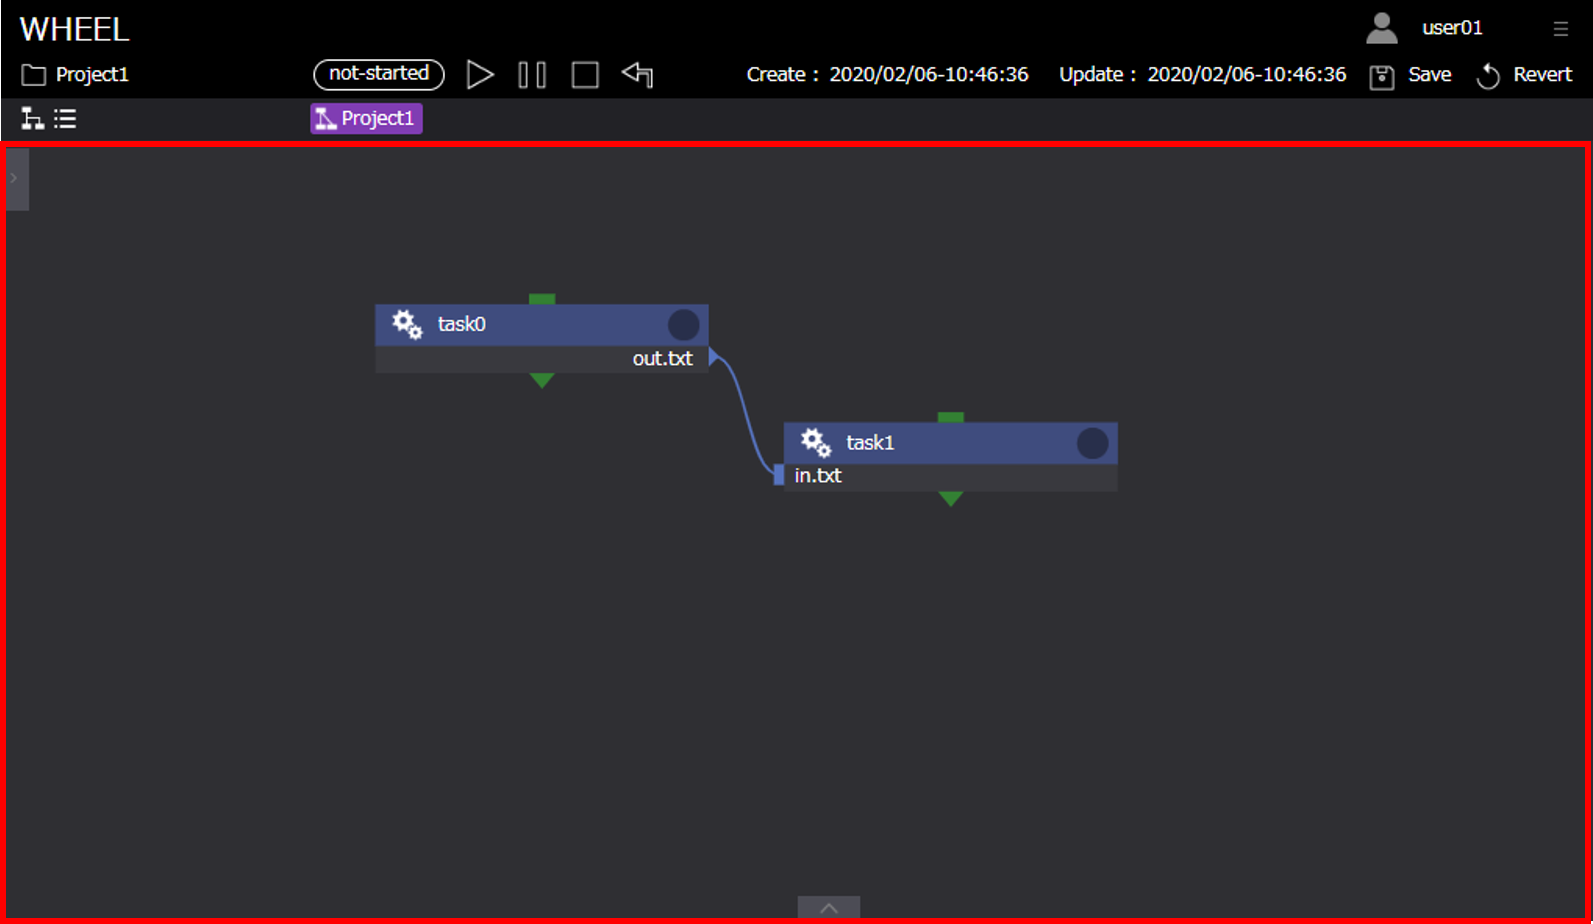
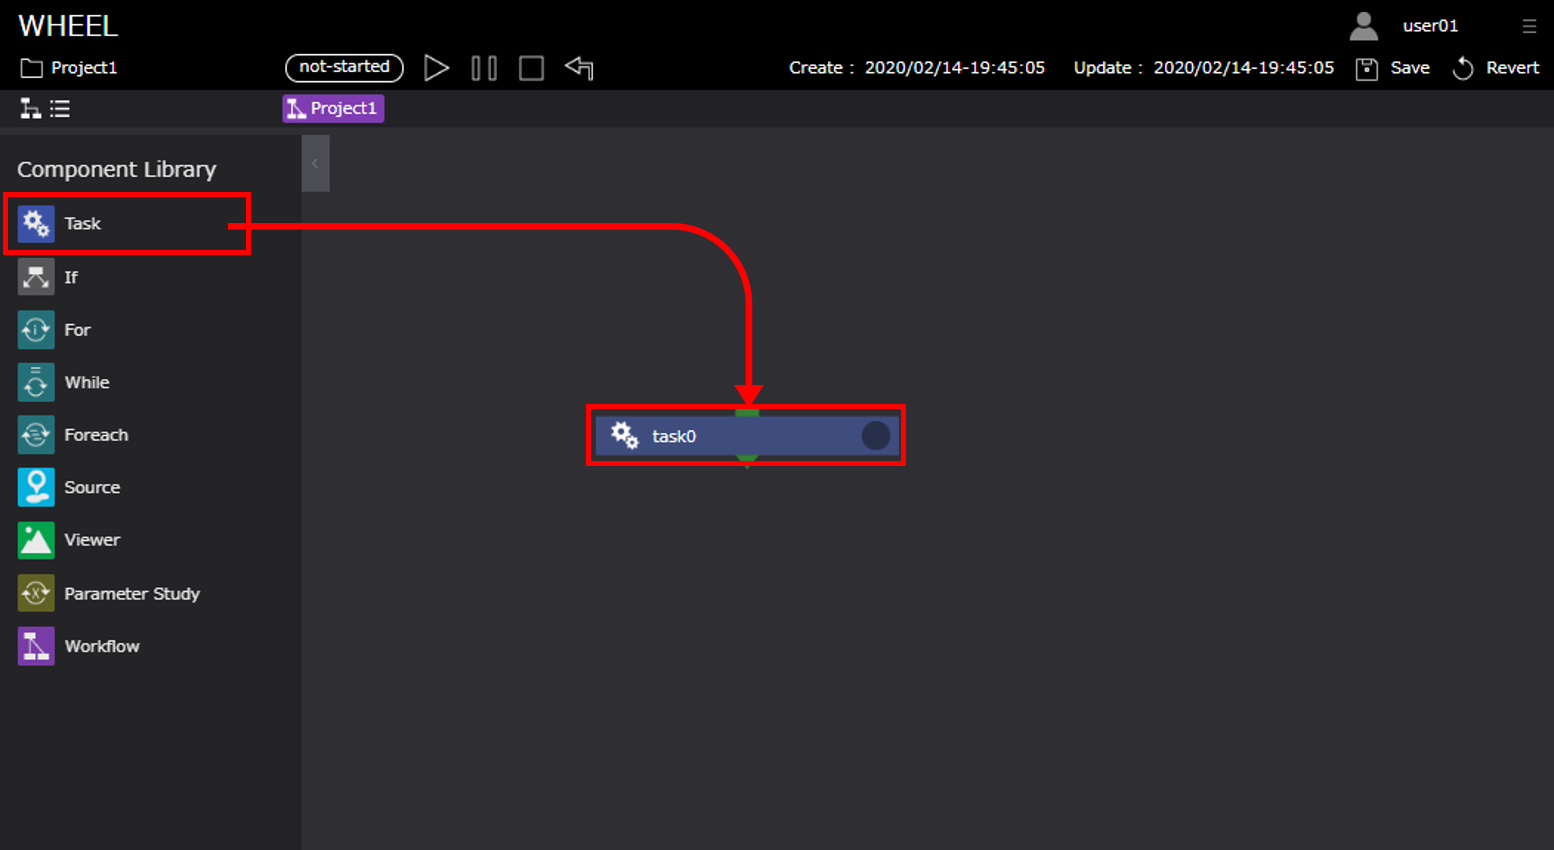
update task component tutorial

Changed region(s): [[0.0, 0.0612, 1.0, 1.0], [0.4633, 0.0, 0.9884, 0.0918], [0.0, 0.0, 0.0927, 0.0918]]

diff --git a/user_guide/WHEEL_manual/4_component/1_Task.md b/user_guide/WHEEL_manual/4_component/1_Task.md
@@ -2,8 +2,8 @@
 
 ![img](./img/task/task.png "task")  
 
-Taskコンポーネントは、WHEELの用意するコンポーネントの中で最も基本的かつ重要なコンポーネントです。    
-remotehostおよびjobSchedulerの設定に応じてスクリプトの実行、ジョブ投入などの処理が行われます。  
+Taskコンポーネントは、WHEELの用意するコンポーネントの中で最も基本的かつ重要なコンポーネントです。
+scriptに設定されたスクリプトファイルを実行環境(ローカル/リモートホスト)等の設定に応じて実行します。  
 
 Taskコンポーネントのプロパティは以下です。
 
@@ -11,9 +11,9 @@ Taskコンポーネントのプロパティは以下です。
 |----|----|----|
 | name | 文字列 | コンポーネントのディレクトリ名 |
 | description | 文字列 | コンポーネントの説明文 | 
+| script | セレクトボックス | Task内の処理を記述したスクリプトのファイルを指定する<br>scriptの選択肢はFilesエリアに登録されているファイル *1| 
 | inputFiles | ファイルまたはディレクトリ名 | 先行コンポーネントから受け取るファイル | 
 | outputFiles | ファイル, ディレクトリ名またはglobパターン | 後続コンポーネントへ渡すファイル | 
-| script | セレクトボックス | Task内の処理を記述したスクリプトのファイルを指定する<br>scriptの選択肢はFilesエリアに登録されているファイル *1| 
 | host | セレクトボックス | Taskを実行するhost、localhostまたは登録済のremotehostのlabelを指定する | 
 | useJobScheduler | チェックボックス | scriptをバッチスケジューラ経由で実行するか直接実行するかのフラグ | 
 | queue | セレクトボックス | ジョブの投入先キューを指定する(useJobSchedulerを使用しない場合は使われない) | 
@@ -33,5 +33,82 @@ Taskコンポーネントのプロパティは以下です。
 　ただし、outputFilesに指定されたファイルは、include/excludeの指定に関わらず全て回収されます。  
 *3 コンポーネントの進行状態が"finished"もしくは"failed"の時のみ表示されます。
 
- ***
+# Taskコンポーネントのタイプ
 
+Taskコンポーネントは、実行場所、ジョブスケジューラの使用/不使用によって、4つのタイプに分類されます。
+
+1. ローカルタスク  
+WHEELが動作するマシン上で実行されるTaskコンポーネント
+1. ローカルジョブタスク  
+WHEELが動作するマシン上でジョブスケジューラを使用し実行されるコンポーネント *
+1. リモートタスク  
+リモートマシン上で実行されるタスクコンポーネント
+1. リモートジョブタスク  
+リモートマシン上でジョブスケジューラを使用し実行されるコンポーネント
+
+*現在のWHEELバージョン(ver.1.2.3)では対応していません。
+
+# Taskコンポーネントの使用方法
+
+Taskコンポーネントの使用方法を説明します。  
+WHEEL(ver.1.2.3)で動作するローカルタスク、リモートタスク、リモートジョブタスクについて説明します。
+
+## ローカルタスク
+
+![img](./img/task/task.png "ローカルタスク")  
+
+### プロパティ
+
+ローカルタスクで使用するプロパティは以下になります。  
+
+| プロパティ | 入力値 | プロパティ説明 |
+|----|----|----|
+| name | 文字列 | コンポーネントのディレクトリ名 【必須】|
+| description | 文字列 | コンポーネントの説明文 |
+| script | セレクトボックス | Task内の処理を記述したスクリプトのファイルを指定する<br>scriptの選択肢はFilesエリアに登録されているファイル 【必須】|
+| inputFiles | ファイルまたはディレクトリ名 | 先行コンポーネントから受け取るファイル |
+| outputFiles | ファイル, ディレクトリ名またはglobパターン | 後続コンポーネントへ渡すファイル |
+
+clean up flag, include, excludeは、リモートタスク（リモートジョブタスク）でのみ有効であるため、
+パラメータは設定できますが使用されません。
+
+### scriptの設定
+
+タスクのタイプによらずscriptの設定は必須です。
+プロパティ画面下部Filesより、タスクで使用するscriptを作成またはアップロードします。
+
+![img](./img/task/task_files.png "Filesエリア")  
+
+1. ファイル生成用ボタン
+1. アップロード用ボタン
+
+#### ファイルの編集
+
+ファイル生成用ボタンで生成したファイルは、ファイル編集用ボタンで起動されるファイル編集画面で編集可能です。
+
+![img](./img/task/task_edit.png "ファイル編集ボタン")  
+
+##### ファイル編集画面  
+
+![img](./img/task/task_editor.png "ファイル編集画面")  
+
+1. グラフビュー画面遷移ボタン  
+ファイル編集画面を終了し、グラフビュー画面に遷移します
+1. 閉じるボタン  
+ファイルを閉じます。保存処理も同時に実行されます
+1. 全ファイル保存ボタン  
+タブで開いている全ファイルを保存します
+1. パラメータセッティングファイル編集画面  
+ParameterStudyコンポーネントで使用するパラメータセッティングファイルの編集に使用します
+
+#### スクリプトファイルの注意事項
+
+Taskコンポーネントの実行成功/失敗は、scriptファイルの終了コードで判断されます。  
+そのため、Taskコンポーネントの誤作動を防ぐためにスクリプトファイルには明示的に終了コードを記載することを推奨します。
+
+##### サンプル
+```
+#!/bin/bash
+echo execute task0
+exit 0
+```
